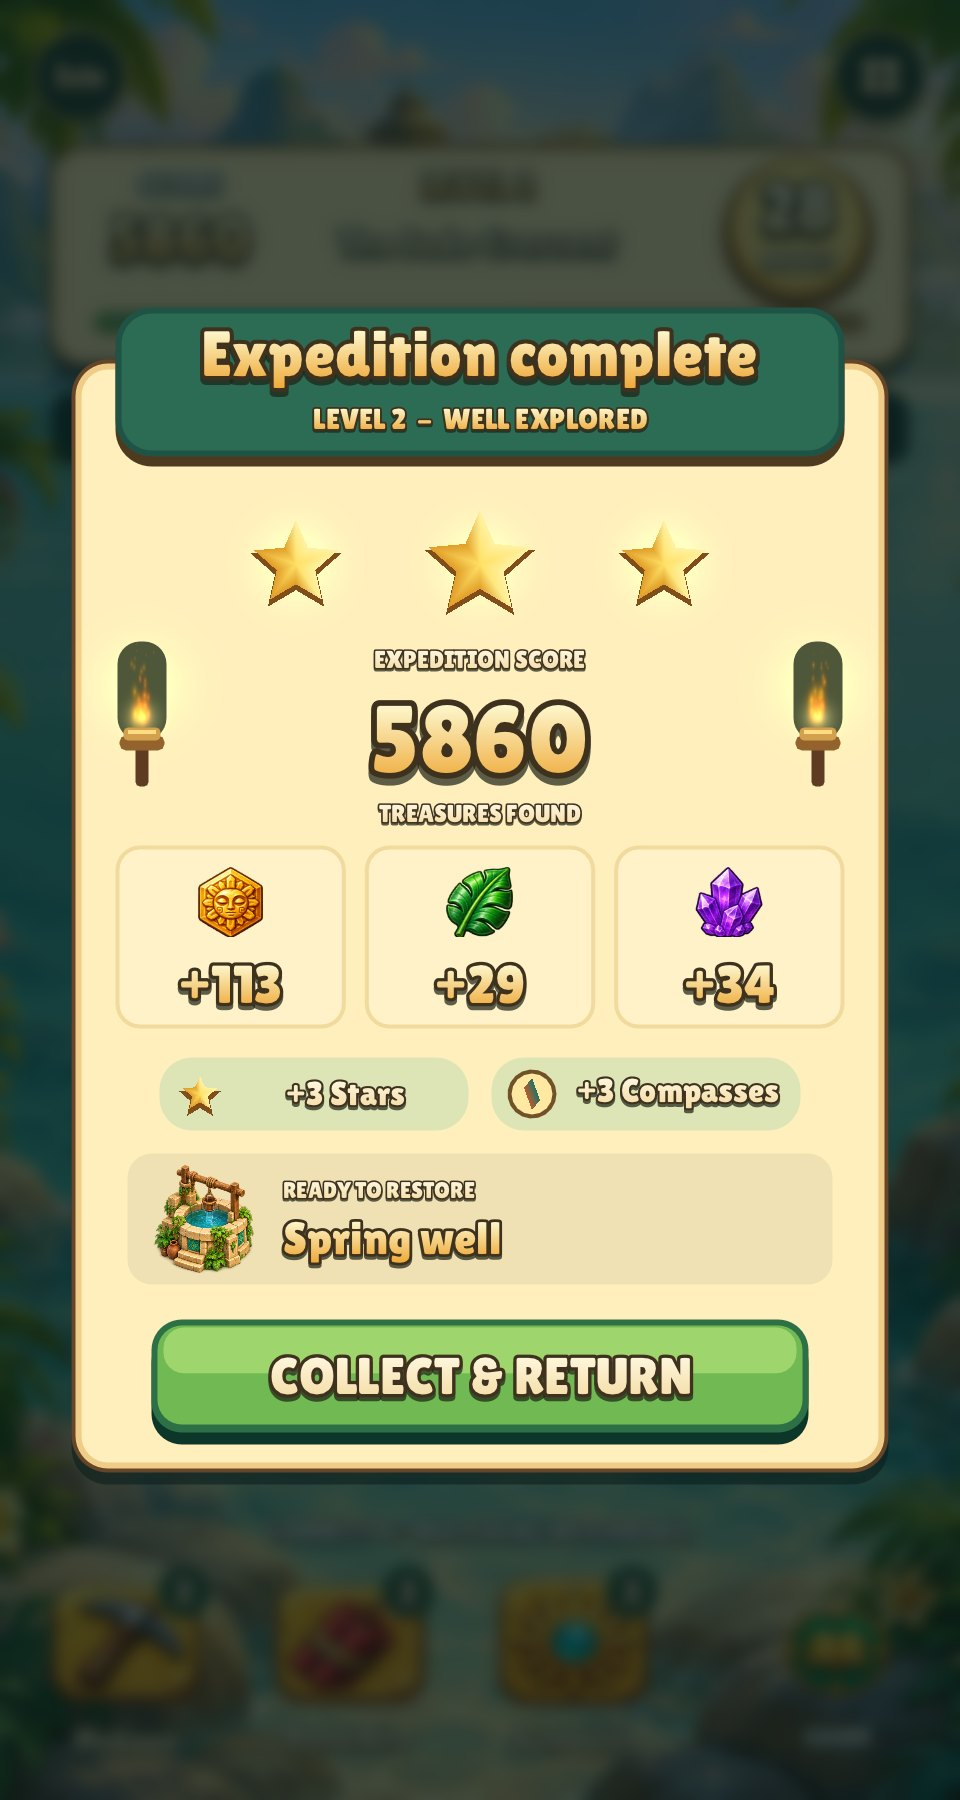
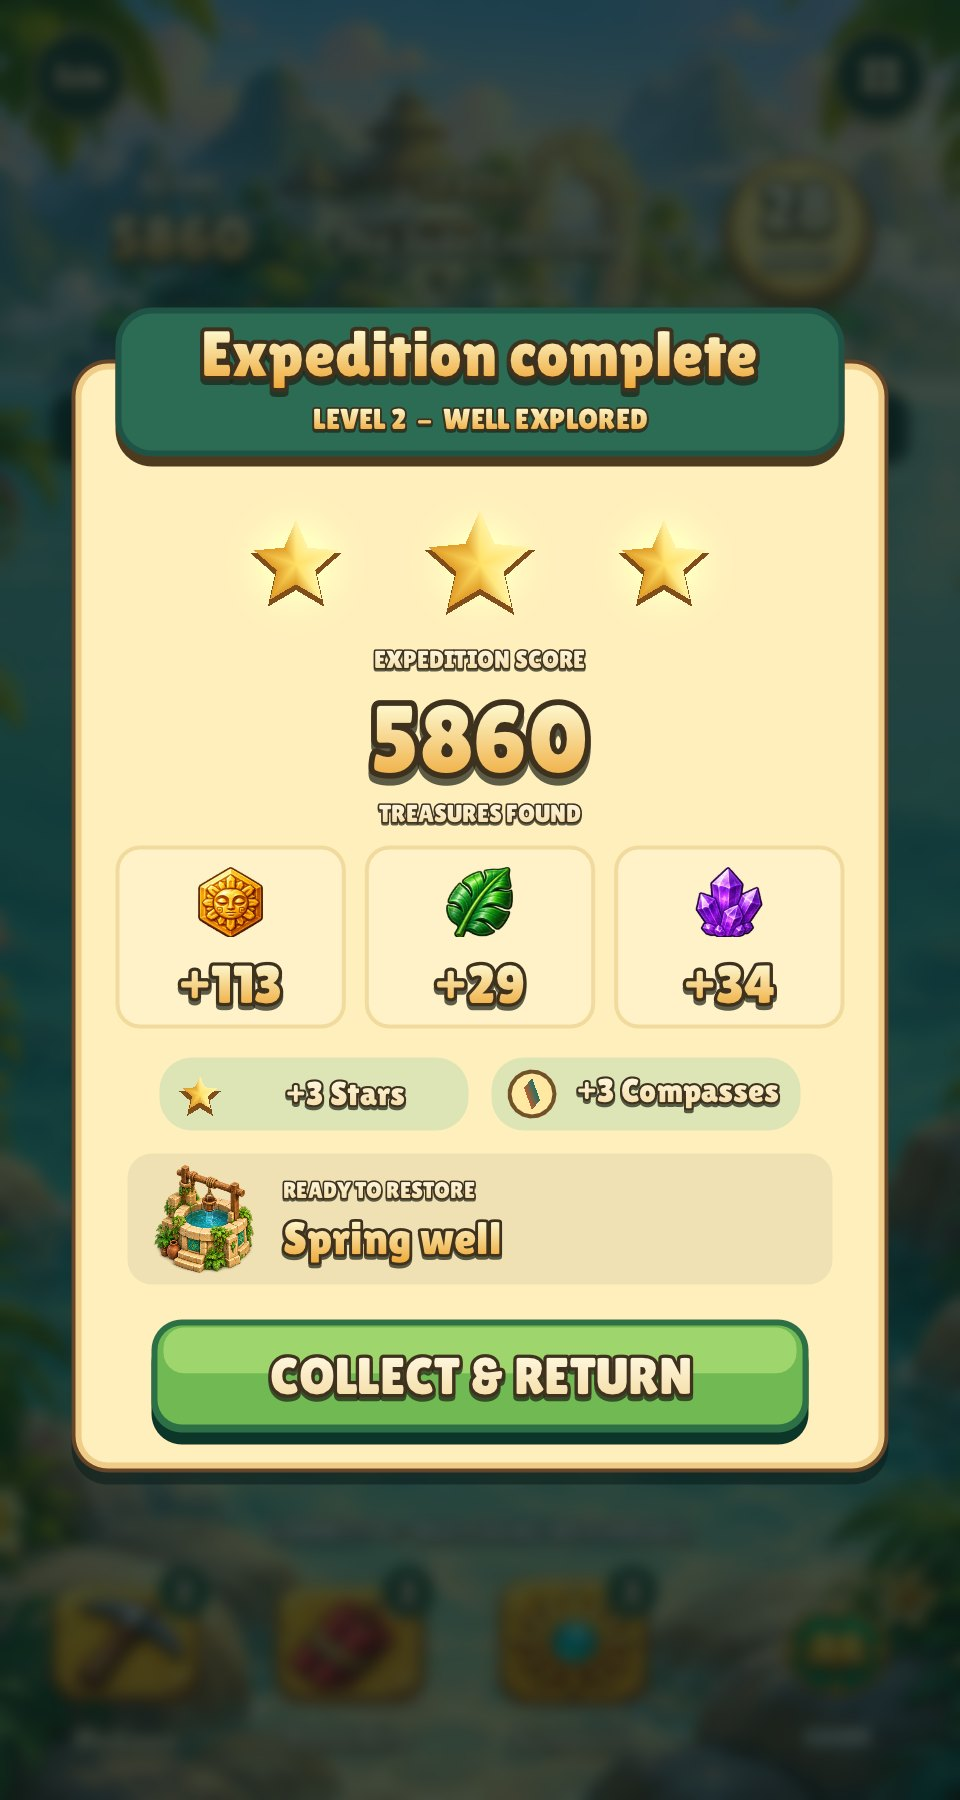
Remove decorative torches from expedition results

diff --git a/games/relic-rush/README.md b/games/relic-rush/README.md
@@ -21,7 +21,7 @@ Pause, building and guide dialogs use engine-owned form resources and one game s
 
 ## Result screens and typography
 
-The result screen now reveals stars, score, resources, progression and the next restoration in sequence, with a short animated return to the island. Quiet torch sconces replace victory fireworks. Building cards use clean sprite extraction and balanced text wrapping.
+The result screen now reveals stars, score, resources, progression and the next restoration in sequence, with a short animated return to the island. Building cards use clean sprite extraction and balanced text wrapping.
 
 Text is aligned by its visible ink bounds (the engine's `text_in`), shared by buttons and counters, and paragraphs wrap into balanced lines (`text_box`).
 
@@ -217,7 +217,7 @@ Fonts: **Lilita One** for the game UI, rendered at runtime by the engine (TrueTy
 - `lua/rules.lua`: hex grid, deterministic match-4 rules, specials, blockers, tools, campaign and rewards — pure Lua, tested headlessly.
 - `lua/island.lua`: shoreline, the hidden hex region map, region adjacency and the ten wonders as engine building definitions.
 - `lua/board.lua`: the expedition screen, animation phases and swipe/tap input.
-- `lua/vfx.lua`: rays, shockwaves, prism links, births, sparks, flying relics, score pop-ups and torches.
+- `lua/vfx.lua`: rays, shockwaves, prism links, births, sparks, flying relics, score pop-ups.
 - `lua/island_view.lua`: the island screen around the engine city: HUD, region markers, placement panel.
 - `lua/screens.lua`: text palettes, panels, buttons and every dialog.
 - `lua/main.lua`: flow, saves, sound and debug entry points; returns the app descriptor the engine runs.

diff --git a/games/relic-rush/docs/ui-results-and-type.md b/games/relic-rush/docs/ui-results-and-type.md
@@ -33,7 +33,7 @@ The result layout has named bounds shared by painting and input: header, stars, 
 5. The primary button appears. A tap during the intro completes the reveal without collecting anything.
 6. Collecting closes the card, then commits the reward exactly once and returns to the island.
 
-There are no victory fireworks or confetti bursts. Two small torch sconces add localized warm light and continuous rising flame wisps. Reduced motion uses stable placement and a static flame pose.
+The result card focuses on stars, score, earned resources and the next restoration. Decorative torch sconces and their flame effects have been removed. Reduced motion presents the same content with stable placement and immediate reveals.
 
 Modal motion is a parent paint transform. It never changes SDL logical size or the mouse/touch coordinate conversion. `screens.lua` owns these components and transitions; the independent gameplay rules remain in `rules.lua`.
 

diff --git a/games/relic-rush/docs/review/result-without-torches/README.md b/games/relic-rush/docs/review/result-without-torches/README.md
@@ -1,0 +1,9 @@
+# Result card without torches
+
+Before: main at `8d30149b9550b02fb971a3e3080e5494b1a28f35`. After: this PR.
+
+Both decorative sconces and the unused flame renderer are removed. The result card retains its existing stars, score, resource rewards, progression, next restoration, reveal sequence and claim behavior. No artwork or interaction state is added.
+
+Capture the real game with `--headless --fresh --mute --victory --frames 90 --shot <file>.png`, at `--size 480x900` and `--size 390x844 --safe-area 0,47,0,34`. Review JPEGs are capped at 480×900; canonical screenshots retain native capture resolution. The result reel uses 36 frames at `--frames (3*i+1) --victory --reel`, reduced to 240×450 for the documentation GIF. `make shots` reproduces the result screenshots and reel.
+
+Build, unit tests, authored atlas checks, and the normal/tall-phone injected-input smoke runs verify the change and reward collection.

diff --git a/games/relic-rush/docs/asset-catalogue.md b/games/relic-rush/docs/asset-catalogue.md
@@ -120,8 +120,10 @@ The guide is a single medallion action, not a toggle or consumable tool.
 | Collection | Existing base-kind image flies to resource HUD with a trail |
 | Reduced motion | Suppresses trails, shake, squash and effect spawns; rule resolution stays active |
 
-Transient light, beams, rings, particles, score text, torches and sunlight motes
-are intentional animation primitives, not missing static artwork.
+Transient light, beams, rings, particles, score text and sunlight motes
+are intentional animation primitives, not missing static artwork. Result-card
+torch sconces and their flame renderer have been removed; reviewed standard
+and safe-area phone captures are in `docs/review/result-without-torches/`.
 `lua/vfx.lua` creates an additive light texture in memory; see
 [effects and capture modes](effects.md). There are no additional hidden gem skins
 for burning, charging, cracked gems or tool upgrades.
